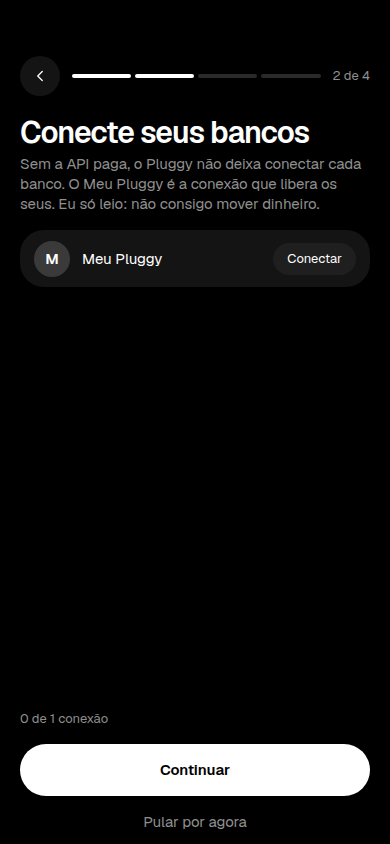
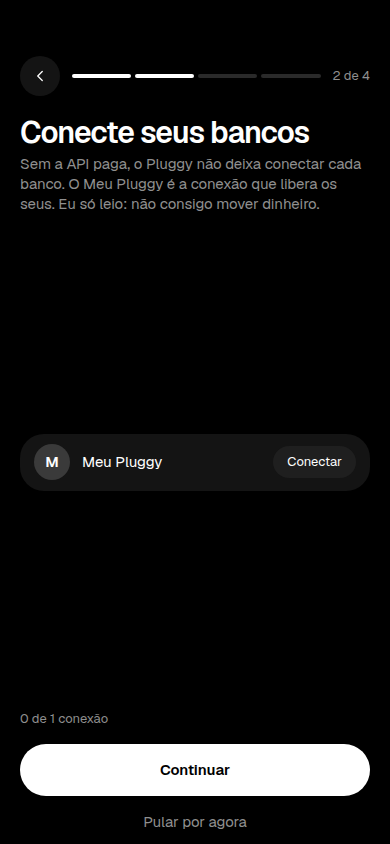
fix(mobile): a conexão do Meu Pluggy fica no meio da tela
Com uma linha só, o card subia para o topo e sumia no recorte da prévia. Agora ele fica no centro.

diff --git a/apps/mobile/src/features/onboarding/BanksStep.tsx b/apps/mobile/src/features/onboarding/BanksStep.tsx
@@ -1,5 +1,5 @@
 import { colors, radius, spacing } from "@orbita/tokens";
-import { Pressable, ScrollView, View } from "react-native";
+import { Pressable, View } from "react-native";
 import { BankLogo, Button, Icon, Screen, Text } from "../../ui/index.ts";
 import { bankBadge } from "../summary/summary-model.ts";
 import { type BankRow, connectionsUsedLabel } from "./model.ts";
@@ -35,11 +35,7 @@ export function BanksStep({
 						seus. Eu só leio: não consigo mover dinheiro.
 					</Text>
 				</View>
-				<ScrollView
-					style={{ flex: 1 }}
-					contentContainerStyle={{ flexGrow: 1 }}
-					showsVerticalScrollIndicator={false}
-				>
+				<View style={{ flex: 1, justifyContent: "center" }}>
 					<View style={{ backgroundColor: colors.surface, borderRadius: radius.block, overflow: "hidden" }}>
 						{rows.map((row, index) => (
 							<View
@@ -84,7 +80,7 @@ export function BanksStep({
 							</View>
 						))}
 					</View>
-				</ScrollView>
+				</View>
 				<Text variant="caption" tone="secondary">
 					{connectionsUsedLabel(used)}
 				</Text>
